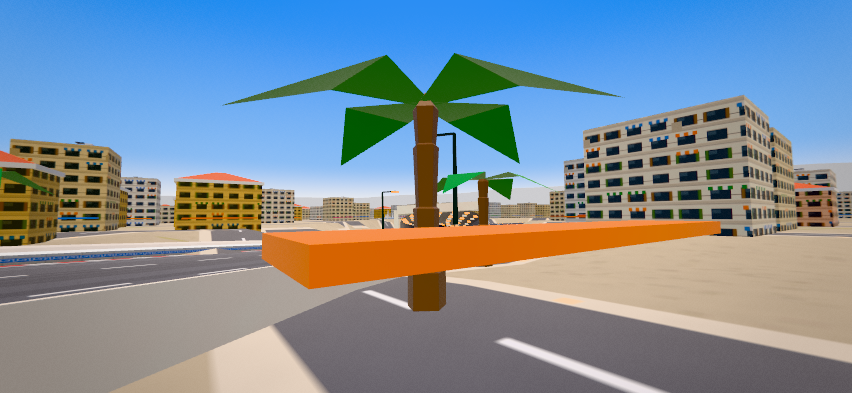
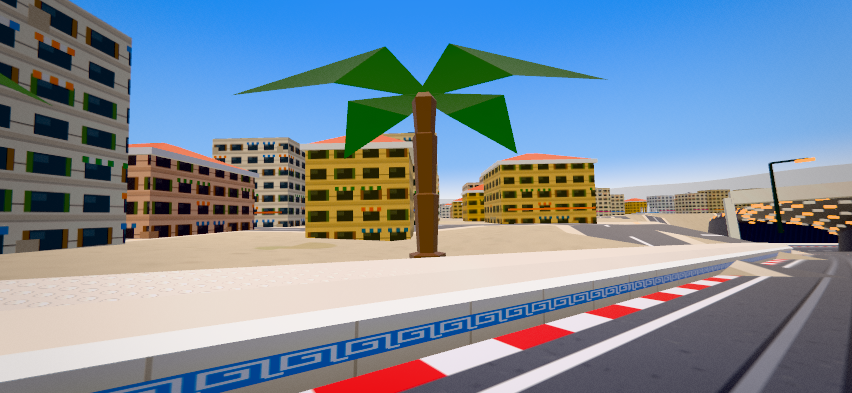
land-2: Syntagma palms off the painted ground streets onto the verge (reviewer v90g); race shot camera kept outside buildings
The orange 'floating slab' in the old shot was a shop awning (athCity AW #e8822a, 4.6 m up) of a building the camera stood inside.

Claude-Session: https://claude.ai/code/session_01Uq1zhXLZyqmHQd2xQRNNUb

diff --git a/src/98ld_l_land.js b/src/98ld_l_land.js
@@ -74,10 +74,19 @@ function LDS_palm(){const{p,k}=LDS.PALM,g=new THREE.LatheGeometry(p.map(([r,y])=
   const a=P(4,-10,0),b=P(4,10,0),c=P(80,45,6),d=P(80,-45,6),t=P(176,0,-43);tri(a,b,c);tri(a,c,d);tri(d,c,t)}
  const G=new THREE.BufferGeometry().setFromPoints(V);G.setAttribute('color',new THREE.Float32BufferAttribute(C,3));G.computeVertexNormals();G.computeBoundingBox();G.computeBoundingSphere();G.userData.ldsPalm=1;return G}
 ART_athTreeBy=(f=>function(k){if(k==='palm'&&!LDS.palmOff)try{const g=LDS_palm();LDS.palm=g;LDS.st=LDS.st||{};LDS.st.palm={src:'6376 palm',old:108,near:LDS_tri(g),far:LDS_tri(g)};return g}catch(e){console.warn('LDS palm',e)}return f.apply(this,arguments)})(ART_athTreeBy);
+// palms off the painted streets (reviewer, v90g): athGroundTex paints 2 asphalt streets per 150 m tile (px 96 / 352 of 512, ±30 px with the
+// sidewalk) in x and z; a LEGO palm that lands on one moves to the nearer band edge + 1 m (still off the track and buildings), else it is dropped
+LDS.onSt=v=>{const p=((v/150)%1+1)%1*512;return[96,352].find(c=>Math.abs(p-c)<31)};
+TInst.prototype.add=(f=>function(x,y,z,...a){if(!(this.geo&&this.geo.userData&&this.geo.userData.ldsPalm))return f.call(this,x,y,z,...a);LDS.pm=LDS.pm||{moved:0,drop:0,ok:0};
+ const fix=v=>{const c=LDS.onSt(v);if(c==null)return[v];const p=((v/150)%1+1)%1*512,base=v-p*150/512;return[base+(c-32)*150/512-1,base+(c+32)*150/512+1]};
+ const ok=(px,pz)=>LDS.onSt(px)==null&&LDS.onSt(pz)==null&&nearestTrackDist(px,pz,HALF+8)>=HALF+3&&!CITY.some(b=>Math.abs(b.x-px)<b.hw+3&&Math.abs(b.z-pz)<b.hd+3);
+ if(ok(x,z)){LDS.pm.ok++;return f.call(this,x,y,z,...a)}
+ const C=[];for(const px of fix(x))for(const pz of fix(z))C.push([px,pz]);C.sort((A,B)=>Math.hypot(A[0]-x,A[1]-z)-Math.hypot(B[0]-x,B[1]-z));
+ for(const[px,pz]of C)if(ok(px,pz)){LDS.pm.moved++;return f.call(this,px,athH(px,pz)-.2,pz,...a)}LDS.pm.drop++;return this})(TInst.prototype.add);
 // LOD: a tree prop mesh (one per type per 800 m tile) draws the near lathe only while the camera is within LDS.near m of its instances' box
 function LDS_scan(){const D=HUB.ptypes;LDS.on=[];LDS.n=HUB.props?HUB.props.length:0;if(!D||!HUB.grp)return;HUB.grp.traverse(o=>{if(!o.isInstancedMesh)return;for(const t in LDS.P){const d=D[t];if(d&&d.lds&&(o.geometry===d.g||o.geometry===d.gFar||o.geometry===d.gOld)){o.userData.lds=t;if(!o.boundingBox)o.computeBoundingBox();LDS.on.push(o)}}})}
 hubCullStep=(f=>function(){f.apply(this,arguments);if(!LDS.st||LDS.off||!HUB.ptypes||!HUB.props)return;if(!LDS.on.length||LDS.n!==HUB.props.length)LDS_scan();const cp=camera.position,D=HUB.ptypes;
  for(const o of LDS.on){const d=D[o.userData.lds],b=o.boundingBox,dx=Math.max(b.min.x-cp.x,0,cp.x-b.max.x),dz=Math.max(b.min.z-cp.z,0,cp.z-b.max.z),g=Math.hypot(dx,dz)<LDS.near?d.g:d.gFar;if(o.geometry!==g)o.geometry=g}})(hubCullStep);
 // test hook (before/after shots of the same spot): ab(1) draws the old trees again
 function LDS_ab(off){for(const DL of['lamp','fence','crate','planter','dumpster'].map(k=>HUB.ptypes&&HUB.ptypes[k]))if(DL&&DL.lds)HUB.grp.traverse(o=>{if(o.isInstancedMesh&&(o.geometry===DL.g||o.geometry===DL.gOld)){o.geometry=off?DL.gOld:DL.g;o.material=off?DL.mOld:DL.mat}});LDS.off=off;const D=HUB.ptypes;LDS_scan();for(const o of LDS.on){const d=D[o.userData.lds];o.geometry=off?d.gOld:d.g}}
-window.__ld.lds=LDS;LDS.race=t=>setupRace({type:'attract',laps:99,traffic:0,items:false,aggr:0,track:t,mood:(TRACK_DEFS.find(d=>d.id===t)||{}).mood||'brick'});LDS.cam=()=>camera;LDS.palm0=()=>athTreeBy0('palm');window.__ld.ldsAB=LDS_ab;window.__ld.ldsLathe=LDS_lathe;
+window.__ld.lds=LDS;LDS.race=t=>setupRace({type:'attract',laps:99,traffic:0,items:false,aggr:0,track:t,mood:(TRACK_DEFS.find(d=>d.id===t)||{}).mood||'brick'});LDS.cam=()=>camera;LDS.palm0=()=>athTreeBy0('palm');LDS.inB=(x,z)=>CITY.some(b=>Math.abs(b.x-x)<b.hw+2&&Math.abs(b.z-z)<b.hd+2);LDS.probe=(x,z)=>({d:nearestTrackDist(x,z,999),HALF,W,ath:athH(x,z)});window.__ld.ldsAB=LDS_ab;window.__ld.ldsLathe=LDS_lathe;

diff --git a/tools/ld/lRace.js b/tools/ld/lRace.js
@@ -8,8 +8,8 @@ const {chromium}=require('/opt/node22/lib/node_modules/playwright');const fs=req
  await p.reload({timeout:600000});await p.waitForFunction(()=>window.__mho&&__mho.state==='menu',null,{timeout:600000});
  await p.evaluate(t=>__ld.lds.race(t),trk);await p.waitForFunction(()=>__ld.lds&&__ld.lds.palm,null,{timeout:600000});await p.waitForTimeout(8000);
  const r=await p.evaluate(()=>{const L=__ld.lds,THREE=__art.THREE,camera=L.cam(),ms=[];__art.scene.traverse(o=>{if(o.isMesh&&o.geometry&&o.geometry.userData.ldsPalm)ms.push(o)});const M=new THREE.Matrix4(),v=new THREE.Vector3(),cp=camera.position;let best=null,bd=1e9,n=0;
-  for(const o of ms)for(let i=0;i<o.count;i++){o.getMatrixAt(i,M);v.setFromMatrixPosition(M);n++;const d=v.distanceTo(cp);if(d>8&&d<bd){bd=d;best=v.toArray()}}let ni=0;const H={};__art.scene.traverse(o=>{if(o.isInstancedMesh){ni++;const t=(o.geometry.index?o.geometry.index.count:o.geometry.attributes.position.count)/3;H[t]=(H[t]||0)+o.count}});console.log('H',JSON.stringify(H),typeof ROOT);return{meshes:ms.length,inst:ni,n,best,cp:cp.toArray(),st:L.st.palm}});
- console.log('PALM',JSON.stringify(r));if(!r.best){console.log('ERR no palm',JSON.stringify(errs.slice(0,6)));await b.close();return}await p.setViewportSize({width:852,height:393});await p.waitForTimeout(2000);const[x,y,z]=r.best;const cam=[x+14,y+5,z+10,x,y+6,z];
+  for(const o of ms)for(let i=0;i<o.count;i++){o.getMatrixAt(i,M);v.setFromMatrixPosition(M);n++;const d=v.distanceTo(cp);if(d>8&&d<bd){bd=d;best=v.toArray()}}let ni=0;const H={};__art.scene.traverse(o=>{if(o.isInstancedMesh){ni++;const t=(o.geometry.index?o.geometry.index.count:o.geometry.attributes.position.count)/3;H[t]=(H[t]||0)+o.count}});console.log('H',JSON.stringify(H),typeof ROOT);return{meshes:ms.length,inst:ni,n,best,cp:cp.toArray(),st:L.st.palm,pm:L.pm}});
+ console.log('PALM',JSON.stringify(r));if(!r.best){console.log('ERR no palm',JSON.stringify(errs.slice(0,6)));await b.close();return}await p.setViewportSize({width:852,height:393});await p.waitForTimeout(2000);const[x,y,z]=r.best;const cam=await p.evaluate(([x,y,z])=>{for(let k=0;k<16;k++){const a=k*Math.PI/8,cx=x+Math.cos(a)*17,cz=z+Math.sin(a)*17;if(!__ld.lds.inB(cx,cz)&&!__ld.lds.inB((cx+x)/2,(cz+z)/2))return[cx,y+4,cz,x,y+5,z]}return[x+14,y+5,z+10,x,y+6,z]},[x,y,z]);console.log('cam',JSON.stringify(cam));
  for(const[off,nm]of[[0,'after'],[1,'before']]){await p.evaluate(o=>{const L=__ld.lds;L.palmOld=L.palmOld||L.palm0();__art.scene.traverse(m=>{if(m.isInstancedMesh&&m.geometry&&(m.geometry.userData.ldsPalm||m.geometry===L.palmOld)){m.userData.pNew=m.userData.pNew||m.geometry;m.geometry=o?L.palmOld:m.userData.pNew}})},off);
   await p.evaluate(c=>{const cv=__art.renderer.domElement;for(const e of document.body.querySelectorAll('*'))if(e!==cv&&!e.contains(cv))e.style.visibility='hidden';__gnb.cam(c)},cam);await p.waitForTimeout(3000);const fr=await p.evaluate(()=>{const i=__art.renderer.info;i.autoReset=false;i.reset();return new Promise(r=>requestAnimationFrame(()=>requestAnimationFrame(()=>{const o={tris:i.render.triangles,calls:i.render.calls};i.autoReset=true;r(o)})))});
   await p.screenshot({path:`${OUT}/palm_${nm}.png`});console.log('shot',nm,`${OUT}/palm_${nm}.png`,'frame',JSON.stringify(fr))}

diff --git a/docs/FREE_ASSETS.md b/docs/FREE_ASSETS.md
@@ -53,4 +53,4 @@ km.js: `light-curved` cannot be dropped yet: Athens still draws it (R1 Athens la
 | 5 | planters: Kenney CC0 `planter` → LEGO flower bed (2×4 bed brick + 3020 Plate 2×4, 4 flowers 33291 on thin stems, 4 leaf clumps 6255) | 204 → 168 | 145k → 120k (712) | 4.58M → 4.43M (all swaps vs all old, close-up spot) | 48 → 48 | docs/shots/land/planter_before.png, planter_after.png |
 | 6 | dumpsters: Kenney CC0 `dumpster` → LEGO brick dumpster (dark green 2×4×2 body, black tile lid ajar, bar handles, 4 wheels) | 234 → 108 | 161k → 75k (690) | 4.62M → 4.42M | 48 → 48 | docs/shots/land/dumpster_before.png, dumpster_after.png |
 | 7 | Athens street lamps: Kenney CC0 `light-curved` (R1 grey) → the same LEGO 2039 lamp post lathe, Athens dark grey, 5.5 m | 92 → 78 | 316k → 268k (3,440 lamps) | 3.35M → 3.26M | same | docs/shots/land/ath/lamps_before.png, lamps_after.png |
-| 8 | Athens race palms (Syntagma, TRK.tree 'palm'): procedural cylinder + 7 slabs → LEGO 6376 palm (2563 base, 2536 trunk segments, 2566 top, 4 × 2518 leaves) | 108 → 99 | 29k → 27k (270 palms) | 2.040M → 2.043M (bigger leaves cover more screen, same draws) | 9 → 9 | docs/shots/land/palm_before.png, palm_after.png |
+| 8 | Athens race palms (Syntagma, TRK.tree 'palm'): procedural cylinder + 7 slabs → LEGO 6376 palm (2563 base, 2536 trunk segments, 2566 top, 4 × 2518 leaves) | 108 → 99 | 29k → 27k (268 palms; v90g review: 105 moved off the painted ground-texture streets onto the verge, 2 dropped) | 2.040M → 2.043M (bigger leaves cover more screen, same draws) | 9 → 9 | docs/shots/land/palm_before.png, palm_after.png |
